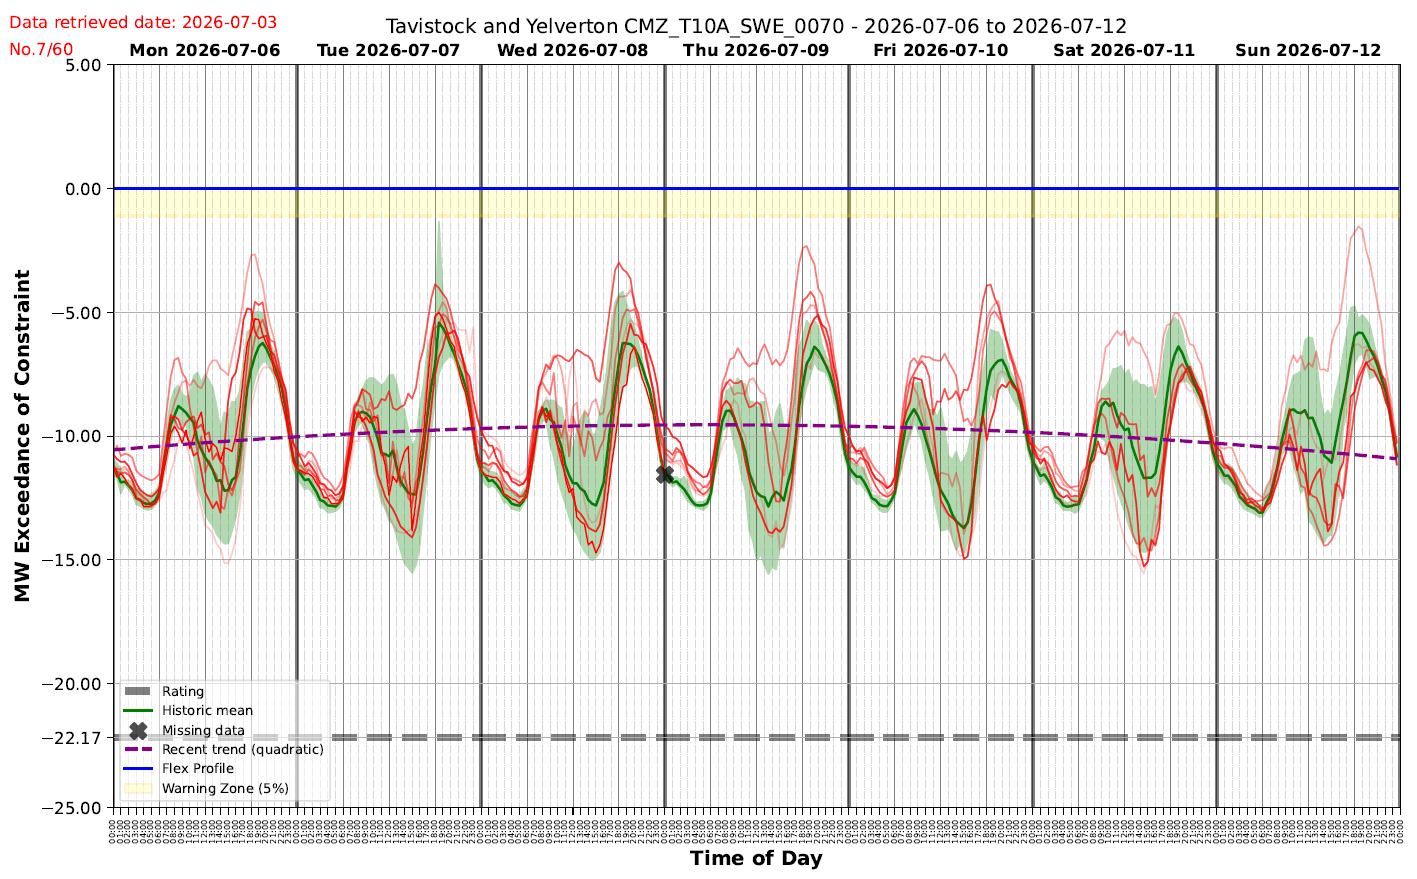
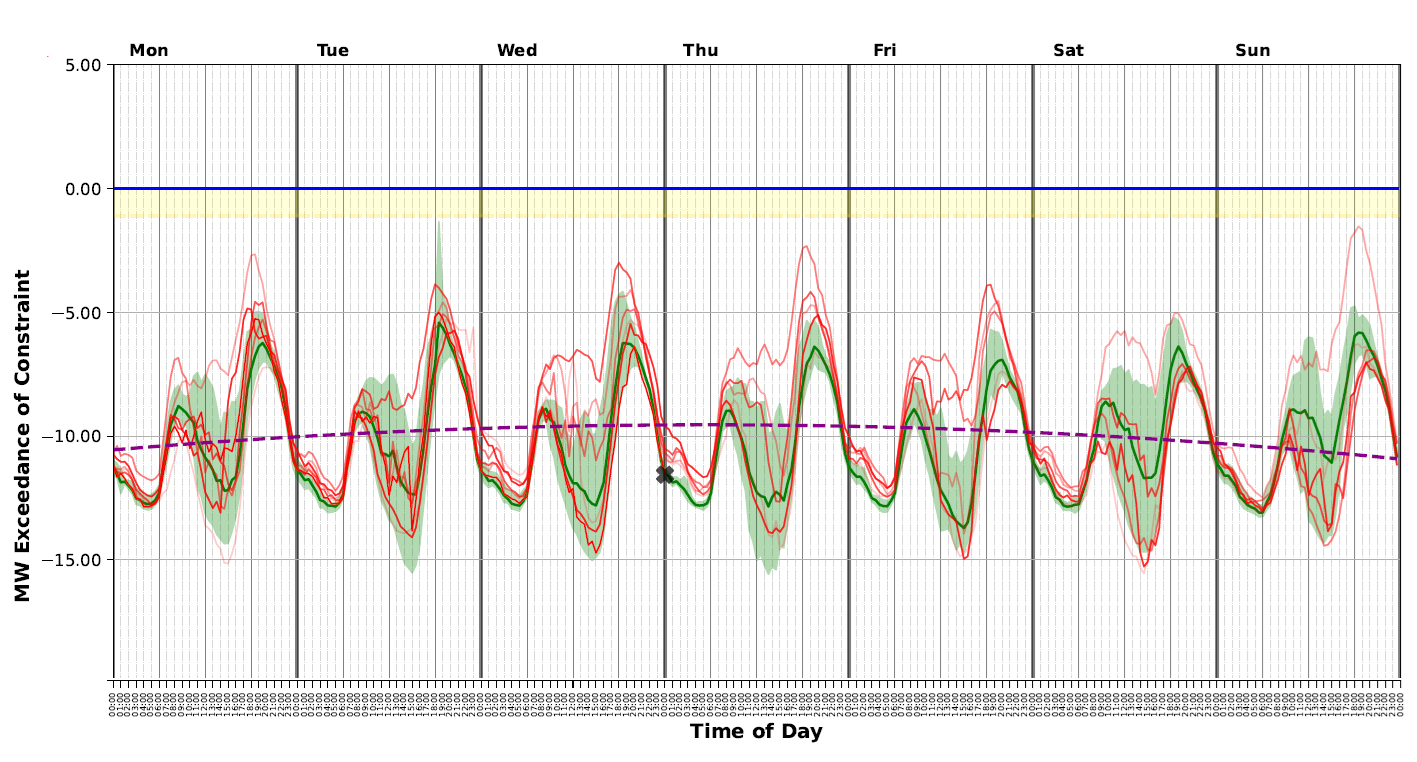
Stop attributing the analogue method to NGED as its current practice
NGED asked for the incumbent-forecast background page to describe the
historical-analogue method as the distribution network operators' normal
approach until recently, rather than as what NGED does today, and for the
operator's percentile to follow the company's risk appetite rather than
being "NGED's P95". This carries that framing to every other docs page
that repeated the old claims, removes the "confirmed by NGED" and quoted
remarks from the metrics roadmap, and tidies the background page.

The replacement mock-up image from #721 was committed to the repo root,
so the page still showed the old screenshot with a real feeder name.
Move it over the asset the page actually links to.

Changed region(s): [[0.0, 0.2113, 0.9936, 0.9961], [0.0, 0.0, 0.9936, 0.0906]]

diff --git a/docs/roadmap/metrics-and-leaderboard.md b/docs/roadmap/metrics-and-leaderboard.md
@@ -59,7 +59,7 @@ Issue: [#147](https://github.com/openclimatefix/nged-substation-forecast/issues/
 No naive baseline exists anywhere in the codebase (only docstring mentions, e.g.
 `contracts/power_schemas.py:242`). Until the leaderboard carries naive rows, XGBoost's NMAE numbers
 aren't interpretable — and, more to the point, we can't answer the question this project exists to
-answer: **do we beat what NGED does today?**
+answer: **do we beat the incumbent historical-analogue forecast?**
 
 **Every comparison against a baseline publishes the fraction of series that beat it alongside the
 average error, never the average alone** — see [Publishing results that others can compare
@@ -68,14 +68,17 @@ for why an average can hide a model getting worse at a substantial minority of s
 
 ### The headline baseline — `nged_incumbent`
 
-`nged_incumbent` is a faithful reproduction of [NGED's incumbent
-forecast](../background/nged-incumbent-forecast.md) — the analogue-ensemble method they use today,
+`nged_incumbent` is a faithful reproduction of the [incumbent
+forecast](../background/nged-incumbent-forecast.md) — the analogue-ensemble method that, until
+recently, was the normal approach to substation forecasting among distribution network operators,
 with no weather model and no ML. In brief (full description and the operator's-eye view are in the
 background page): for each target half-hour it takes the observed power at the **same weekday &
-time-of-day** from the **last 6 weeks** and from **49–55 weeks back** — **13 analogues**. NGED plot
-and read the analogues by eye, taking the 95th percentile if they need a single number. Reproducing
-it matters because it is *the bar we have to clear to justify the project* — "XGBoost beats
-persistence" is the least we must do; "XGBoost beats the incumbent" is the deliverable. It is the
+time-of-day** from the **last 6 weeks** and from **49–55 weeks back** — **13 analogues**. An
+operator reads the plotted analogues by eye. If a single number is needed, the operator picks the
+percentile that matches the company's risk appetite; we score the conservative 95th percentile.
+Reproducing the incumbent matters because it is *the bar we have to clear to justify the project*
+— "XGBoost beats persistence" is the least we must do; "XGBoost beats the incumbent" is the
+deliverable. It is the
 first baseline we implement; if we implement only one, it is this one.
 
 `nged_incumbent` fits our existing machinery, because every one of its 13 members is just a **power
@@ -89,9 +92,9 @@ So it rides the same audited, no-lookahead pipeline as `PersistenceForecaster` (
 time-series logic. `_nullify_leaky_lags` already sheds the shortest members as lead time grows (past
 7 days the 168 h member nullifies, past 14 days the 336 h, and so on). That shedding leaves the
 annual members to carry the full 14-day horizon. Because the shortest member is a week old, the
-incumbent has *no* short-horizon skill from recent power — realistic, since that is exactly what
-NGED do today, and a reason to keep the pure `PersistenceForecaster` as a contrast rather than to
-sneak a recent-power member in.
+incumbent has *no* short-horizon skill from recent power. That gap is faithful to the analogue
+method, and a reason to keep the pure `PersistenceForecaster` as a contrast rather than to sneak a
+recent-power member in.
 
 **`nged_incumbent` is also our first _probabilistic_ baseline — and this is the faithful
 representation, not a bonus.** The plotted spread *is* the incumbent's output — an operator reads it
@@ -109,17 +112,17 @@ member rows) rather than consuming an NWP ensemble; it runs with `weather_source
 **Deterministic collapse is a property of the metrics layer, not the incumbent.** The incumbent
 emits its 13 members and nothing else; the [metric-matched collapse
 decision](#which-ensemble-collapse-defines-the-deterministic-point-forecast) then scores its MAE on
-the members' median (apples-to-apples with every other model's central forecast) and reports NGED's
-*actual* operating point — the **95th percentile** — as a labelled secondary number (`mae`/`mbe` at
-`metric_param="p95"`). Being deliberately conservative, the P95 carries a large *positive* MBE **by
-design** (a peak-safety choice, not a forecasting error), so it belongs *beside* the central metric.
-Either way NGED weight the analogues equally ("no further processing at all"), so equiprobable
-members — and the probabilistic metrics (CRPS etc.) computed over them — are faithful, not an
-approximation.
+the members' median (apples-to-apples with every other model's central forecast) and reports a
+conservative operator operating point — the **95th percentile** — as a labelled secondary number
+(`mae`/`mbe` at `metric_param="p95"`). Being deliberately conservative, the P95 carries a large
+*positive* MBE **by design** (a peak-safety choice, not a forecasting error), so it belongs *beside*
+the central metric. Either way the analogue method weights the analogues equally, with no further
+processing, so equiprobable members — and the probabilistic metrics (CRPS etc.) computed over them
+— are faithful, not an approximation.
 
 ### A faithful replica and a "simple upgrades" variant
 
-**Most of the benefit may come from a few simple upgrades to what NGED already do, not from heavy ML
+**Most of the benefit may come from a few simple upgrades to the analogue method, not from heavy ML
 — the message the pair of baselines is built to test.** We implement two closely-related incumbent
 baselines:
 
@@ -217,7 +220,7 @@ collapse config and no designated point-forecast columns on `PowerForecast`. In
   exactly `.median()`), and keep `q_p95`.
 - Score `mae`/`nmae` on the median error; `rmse`/`mbe` on the mean error; the spread-skill
   denominator stays the mean-error RMSE (its Fortin "1.0 = calibrated" target is defined against the
-  mean). Add extra labelled rows: `mae`/`mbe` at `metric_param="p95"` (NGED's operating point) and
+  mean). Add extra labelled rows: `mae`/`mbe` at `metric_param="p95"` (the conservative operating point) and
   `mbe` at `metric_param="p50"` (bias of the delivered median). `METRIC_PARAMS` already contains
   `"p95"` and `"p50"` (both are in `DELIVERY_QUANTILES`), so **no `Metrics` schema change** — and
   the primary key includes `metric_param`, so the new rows do not collide with the `metric_param="all"`
@@ -387,16 +390,17 @@ only skill floor the NWP ensemble must clear at long horizons.
   details — baselines" section (summary → PR body), close #147, and update the status banner plus the
   milestone section in [`docs/roadmap/index.md`](index.md) if the arc changed.
 
-**Recipe confirmed by NGED (July 2026).** No open questions remain. Full write-up in [NGED's
-incumbent forecast](../background/nged-incumbent-forecast.md); the implementation spec:
+**The recipe.** No open questions remain. Full write-up in [NGED's incumbent
+forecast](../background/nged-incumbent-forecast.md); the implementation spec:
 
 - **Weekly analogues:** the last **6** weeks, same weekday & time-of-day.
 - **Annual analogues:** the **7** weeks spanning **49–55 weeks back**, same weekday & time.
-- **Deterministic value:** NGED's own operating point is the **95th percentile** of all 13 analogue
-  values ("more of a vibe") — reported alongside the metric-matched **median** headline (PR 1).
+- **Deterministic value:** the operator picks the percentile that matches the company's risk
+  appetite; we score the conservative **95th percentile** of all 13 analogue values, reported
+  alongside the metric-matched **median** headline (PR 1).
 - **No further processing:** no weighting, no holiday handling, no anomaly rejection, no
   load-growth scaling. (This is precisely why the holiday-aligned variant is a genuine, un-done
-  upgrade — not a reimplementation of a method NGED already uses.)
+  upgrade — not a reimplementation of a step the analogue method already takes.)
 
 **Cross-cutting.** (1) **Issue hygiene:** create one tracked sub-issue per PR under epic
 [#6](https://github.com/openclimatefix/nged-substation-forecast/issues/6) / #147 following the
@@ -587,7 +591,7 @@ analogues for `nged_incumbent`; a quantile sample for `climatology`). The metric
 collapse each ensemble to one number. `compute_metrics` today collapses every ensemble to its
 **mean** (`packages/ml_core/src/ml_core/metrics.py`), and the risk we were guarding against was that
 different models would be scored on *different* collapses — e.g. the ML models on their mean and
-`nged_incumbent` on the median that NGED effectively reads off its analogue spread. Mean and median
+`nged_incumbent` on the median that an operator effectively reads off its analogue spread. Mean and median
 diverge for skewed or underdispersed ensembles, so scoring some models on one and some on the other
 is **not apples-to-apples** — a silent trap that quietly mis-ranks models.
 
@@ -607,7 +611,7 @@ practice.
 The **median** is the point forecast that minimises **absolute error** — so MAE and NMAE are
 *consistent* with the median. It is robust to the skew that is real in this problem (holiday weeks,
 solar clipping) and to the ensemble underdispersion the [probabilistic
-section](#delivering-the-probabilistic-metrics) documents, it is the faithful reading of NGED's
+section](#delivering-the-probabilistic-metrics) documents, it is the faithful reading of the incumbent's
 equally-weighted analogue spread, and it is coherent with the quantile columns already on the
 leaderboard: median MAE is exactly `2 × pinball_loss@p50`, so a median headline makes the
 deterministic and probabilistic columns tell one story.
@@ -631,7 +635,7 @@ every model**:
   (RMSE of the ensemble mean = `√((m+1)/m) ×` RMS spread, so "1.0 = calibrated") is *defined*
   against the mean; switching its internal collapse would silently break that reading.
 
-Everything else is an **extra, labelled** row, never a headline: NGED's **P95** operating point
+Everything else is an **extra, labelled** row, never a headline: the incumbent's conservative **P95** operating point
 (`mae`/`mbe` at `metric_param="p95"` — conservative by design, so a large positive MBE that belongs
 *beside* the central number), and the **median's own bias** (`mbe` at `metric_param="p50"`, so the
 delivered central forecast has an honest bias number distinct from the mean's energy-balance bias).

diff --git a/docs/background/nged-incumbent-forecast.md b/docs/background/nged-incumbent-forecast.md
@@ -1,9 +1,9 @@
 # NGED's Incumbent Forecast
 
 NGED has been investing in a suite of different forecasting tools for use cases stretching from
-multi-year planning forecasts through to day-ahead dispatch of flexibility service. However, until
-recently, the normal approach to forecasting in the DNO industry relied more heavily on the
-operator. It used no weather model and no machine learning: for each substation it assembled a small
+multi-year planning forecasts through to day-ahead dispatch of flexibility services. However, until
+recently, the normal approach to forecasting among distribution network operators relied more
+heavily on the operator. It used no weather model and no machine learning: for each substation it assembled a small
 ensemble of **historical analogues** from that substation's own past, plotted them, and let a human
 operator read a forecast off the spread. This is the **incumbent** — the method our models will be
 compared against — so we reproduce it faithfully as the `nged_incumbent` [baseline
@@ -24,26 +24,27 @@ There is no weighting, no holiday alignment, no anomaly rejection, and no load-g
 
 The output is **the plot itself** — an operator looks at the 13 traces and their spread and forms a
 judgement. If a single deterministic number is needed, the operator would pick the percentile that
-aligned to the company’s risk appetite. That 95th percentile is a deliberately **conservative**
-operating point: the tool's job is to warn when demand might approach the network's flex/firm
+aligned to the company's risk appetite. A high percentile such as the 95th is a deliberately
+**conservative** operating point: the tool's job is to warn when demand might approach the network's flex/firm
 capacity limit, so erring high is the safe direction.
 
 ## The operator's view
 
-![NGED's incumbent analogue-ensemble forecasting
+![Mock-up of an analogue-ensemble forecasting
 tool](assets/plot_of_NGEDs_incumbent_forecasting_method.png)
 
-The screenshot above is a mock up of what an operator might see for one feeder over a week. Demand
-is plotted as **headroom against the constraint** — the y-axis is "MW Exceedance of Constraint",
-where the blue **Flex Profile** line at `0` is the limit and more-negative values are further below
-it. Reading the overlays:
+The image above is a mock-up of what an operator might see for one feeder over a week. Demand is
+plotted as **headroom against the constraint** — the y-axis is "MW Exceedance of Constraint", where
+the blue **Flex Profile** line at `0` is the limit and more-negative values are further below it.
+Reading the overlays:
 
 - **Red/pink traces** — the individual historical analogues (the 13 above).
-- **Green line ("Historic mean")** and the **green band** — the mean of the analogues and the spread
-  around it.
-- **Purple dashed ("Recent trend (quadratic)")** — a smooth recent-trend line the tool overlays as a
+- **Green line** and **green band** — the mean of the analogues and the spread around it.
+- **Purple dashed line** — a smooth recent-trend line (a quadratic fit) the tool overlays as a
   sense-check.
-- **Yellow "Warning Zone (5%)"**.
+- **Yellow band** just below the Flex Profile — a warning zone, which is an operational threshold
+  rather than part of the forecast.
+- **Black cross** — a missing reading.
 
 The strong twice-daily peaks and the weekday/weekend difference are exactly the structure the
 same-weekday analogue selection is built to capture.
@@ -51,7 +52,7 @@ same-weekday analogue selection is built to capture.
 ## Why it matters for us
 
 Because the incumbent approach uses no weather and no ML, beating it is the project's core
-deliverable — and because it does *no further processing at all*, several cheap upgrades (e.g.
+deliverable — and because it does no further processing at all, several cheap upgrades (e.g.
 aligning bank holidays and moveable feasts) are genuinely useful work rather than reimplementations.
 Both the faithful replica and the "cheap upgrades" variant are specified in [Metrics & leaderboard →
 Baseline forecasters](../roadmap/metrics-and-leaderboard.md#baseline-forecasters).

diff --git a/docs/roadmap/cost-savings-metrics.md b/docs/roadmap/cost-savings-metrics.md
@@ -241,15 +241,15 @@ would silently score £0 for every generator meter in the trial area.
 Every model's cost is reported beside two reference points, computed on the same series and
 half-hours:
 
-- **Manual review** — the incumbent method: the 13-analogue ensemble, summarised at the 95th
-  percentile if a single number is needed ([the incumbent
-  forecast](../background/nged-incumbent-forecast.md); we have not confirmed that the 95th
-  percentile is what they use, and [this is still an open question](#questions-for-nged)). It is
-  scored at that
-  **actual operating point, not calibrated to the common risk target**, because the point is to
-  measure what NGED do today. Its realised unmet fraction is therefore an output — the number
-  saying what risk level they currently work to — and the saving against it mixes a change in spend
-  with a change in risk. Both are reported; neither means much alone.
+- **Manual review** — the incumbent method: the 13-analogue ensemble, summarised at one percentile
+  if a single number is needed ([the incumbent forecast](../background/nged-incumbent-forecast.md)).
+  The operator picks that percentile to match the company's risk appetite. We score the 95th
+  percentile, and [which percentile manual review works from is still an open
+  question](#questions-for-nged). Manual review is scored at that **actual operating point, not
+  calibrated to the common risk target**, because the point is to measure the incumbent method as
+  it is operated. Its realised unmet fraction is therefore an output — the number saying what risk
+  level manual review works to — and the saving against it mixes a change in spend with a change in
+  risk. Both are reported; neither means much alone.
 - **Perfect forecast** — the least that can be spent while leaving no more than the target fraction
   $u$ unmet. Truth is not a distribution, so there is no quantile to calibrate: the floor is the
   cost of procuring exactly $(1-u)N_{i,t}$ in every half-hour, put straight through the same price

diff --git a/docs/design-philosophy/design-principles.md b/docs/design-philosophy/design-principles.md
@@ -43,7 +43,7 @@ a machine-learning (ML) model that can, at least partially, handle missing input
 through fallback logic wrapped around a model that assumes complete data. (Note that this decision
 to "never stop" will not be appropriate for energy-forecasting systems where an uncertain forecast
 might be more harmful than *no* forecast. But, in Flexpectation, there are strong arguments that
-our forecast will *always* be better than NGED's incumbent baseline, even when we have no live
+our forecast will *always* be better than the incumbent baseline, even when we have no live
 data.)
 
 Degrading is only half the principle: **we must be notified that the forecast degraded.** Three
@@ -793,7 +793,7 @@ model.
 [Principle 1 ("*the power forecast never stops*")](#1-the-power-forecast-never-stops) is the
 contingent one: it is downstream of the fact
 that [an outage is cheap here](../background/requirements.md#uptime-lenient-by-design) and that
-[the incumbent forecast is a floor beneath us](inherent-stability.md#ngeds-incumbent-forecast-is-the-floor);
+[the incumbent forecast is a floor beneath us](inherent-stability.md#the-incumbent-forecast-is-the-floor);
 a
 system where a wrong-but-confident forecast costs real money — a trading desk, a control-room feed —
 should invert it and fail closed. And the push-work-to-the-engine and new-technology principles are

diff --git a/docs/design-philosophy/inherent-stability.md b/docs/design-philosophy/inherent-stability.md
@@ -79,13 +79,13 @@ That self-correcting stability is what we want from the forecasting service. Whe
 it, sensible behaviour under disturbance should fall out of how the system is built, rather than
 being watched for and corrected by machinery bolted on around it.
 
-## NGED's incumbent forecast is the floor
+## The incumbent forecast is the floor
 
 Even in the worst case, when we have _no_ fresh data, we hope to still be able to provide a better
-power forecast than NGED's incumbent forecast, with appropriate confidence bands. This is what
-allows us to claim that we should _always_ be able to produce a power forecast, even when "blind".
+power forecast than the incumbent forecast, with appropriate confidence bands. This is what allows
+us to claim that we should _always_ be able to produce a power forecast, even when "blind".
 
-[NGED's incumbent forecast](../background/nged-incumbent-forecast.md) assembles 13 historical
+[The incumbent forecast](../background/nged-incumbent-forecast.md) assembles 13 historical
 analogues at the same time-of-day on the same weekday — 6 from the last 6 weeks, 7 from 49–55 weeks
 back — and reads them as an ensemble. No weather, no ML, no holiday alignment, no load-growth
 scaling.

diff --git a/docs/background/index.md b/docs/background/index.md
@@ -11,9 +11,9 @@ describes what is built to solve it.
   values, and missing-data gaps in the trial-area telemetry.
 - [Requirements](requirements.md) — the phased rollout from 32 time series to roughly 2,500, and
   the objectives NGED prioritises.
-- [NGED's incumbent forecast](nged-incumbent-forecast.md) — the historical-analogue method NGED
-  uses today, with no weather model and no machine learning, and the baseline our own forecasts
-  are measured against.
+- [NGED's incumbent forecast](nged-incumbent-forecast.md) — the historical-analogue method that,
+  until recently, was the normal approach among distribution network operators, with no weather
+  model and no machine learning, and the baseline our own forecasts are measured against.
 - [Switching events](switching-events.md) — why NGED's meshed network is operated as a radial
   tree, and why reconfiguring that tree moves load between substations without warning.
 - [The state of the art in energy forecasting](energy-forecasting-review.md) — what the

diff --git a/docs/background/requirements.md b/docs/background/requirements.md
@@ -65,7 +65,7 @@ scoring](../roadmap/cost-savings-metrics.md#metric-2-curtailment-cost) nets at o
 summing up the substation hierarchy. The money is counted differently too — curtailment today is
 priced as a whole-system cost rather than as NGED's own spend. But NGED rate the saving as highly,
 so the forecast requirement is unchanged. So the question users ask of a forecast is rarely "what is
-the most likely load?" and usually "**how likely is net demand to cross this limit?**" — NGED's
+the most likely load?" and usually "**how likely is net demand to cross this limit?**" — the
 [incumbent forecasting tool](nged-incumbent-forecast.md#the-operators-view) literally plots demand
 as headroom below a constraint line.
 

diff --git a/docs/techniques/evaluation-metrics.md b/docs/techniques/evaluation-metrics.md
@@ -419,7 +419,7 @@ $$
 
 The exceedance rate is the one-sided companion to
 [PICP](#picp-prediction-interval-coverage-probability): PICP checks symmetric bands
-(p10–p90, etc.), whereas NGED's operating point is one-sided — an operator reads the p95 as
+(p10–p90, etc.), whereas the incumbent's conservative operating point is one-sided — an operator reads the p95 as
 "the level demand should stay under, 19 times out of 20" — so its honesty deserves its own
 directly-readable number. It is *not* a ranking metric (a model can hit perfect exceedance
 rates with absurdly wide quantiles; pinball loss and twCRPS punish that); it is the trust
